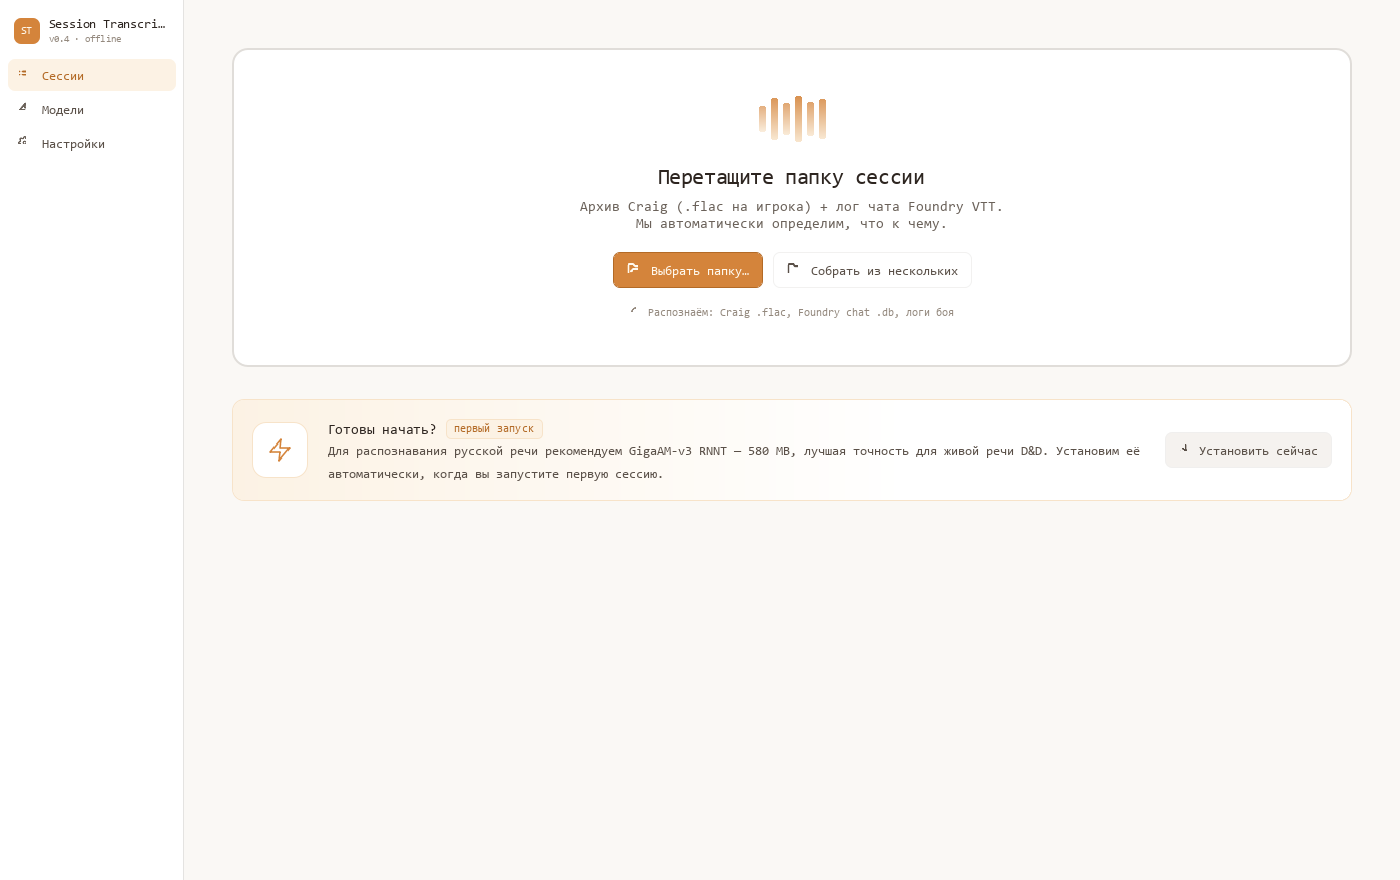
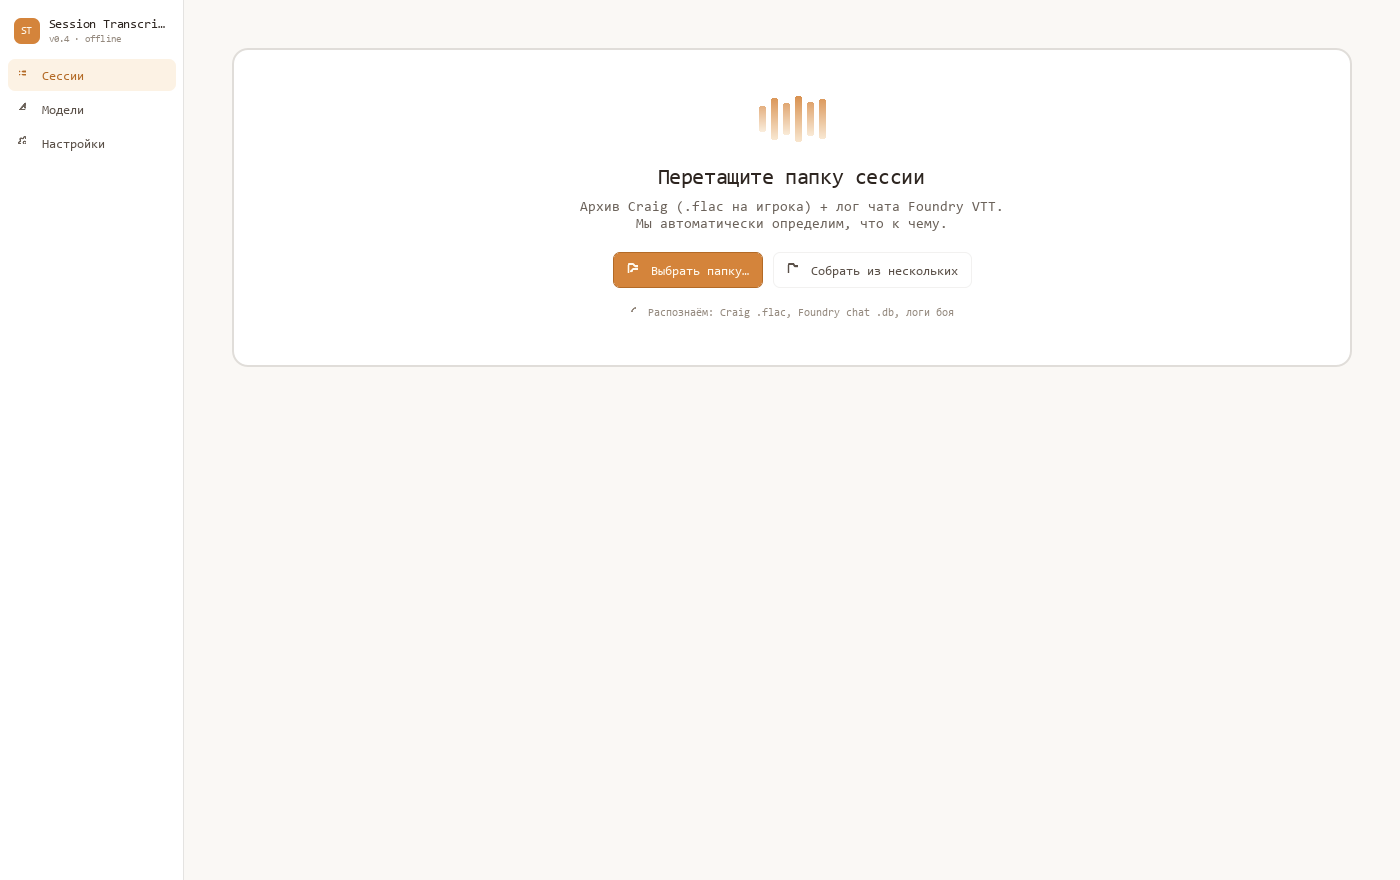
feat(ui): make the first-run install prompt real
Three things were wrong with the first launch of a fresh install.

The "Установить сейчас" button had no onClicked at all - a painted
rectangle. It now installs the recommended model and switches to the
Models screen first, since installation runs on a worker thread and
its progress is only visible there; starting a several-hundred-megabyte
download with no visible progress reads as a dead button.

The copy hardcoded "580 MB" against a catalogue that says ~900 MB, and
promised "Установим её автоматически, когда вы запустите первую
сессию" - which nothing implements. Model name and size now come from
the registry, and the text says what actually happens.

The banner greeted returning users too, inviting them to install a
model they already had. It is now bound to anyInstalled.

Separately, runAsr gained a pre-flight check. Without a model on disk
every track failed on its own with a developer-facing RuntimeError
("GigaAM-v3 model is not installed. Run installer or
GigaAMSource().install(params)"); six red rows of that was the
first-time experience. One sentence pointing at the Models screen
replaces it.

New ModelRegistry properties: anyInstalled, recommendedRow,
recommendedTitle, recommendedSizeLabel.

diff --git a/ui/qml/screens/EmptyScreen.qml b/ui/qml/screens/EmptyScreen.qml
@@ -178,13 +178,17 @@ Rectangle {
                 // follow-up; until then this area stays empty.
 
                 // ── First-install banner ──────────────────────────
+                // Only while there is genuinely nothing installed. It
+                // used to greet returning users too, inviting them to
+                // install a model they already had.
                 Rectangle {
                     Layout.fillWidth: true
                     Layout.topMargin: 32
                     radius: Theme.radiusLg
                     border.width: 1
                     border.color: Theme.accentSoft
-                    implicitHeight: bannerRow.implicitHeight + 40
+                    visible: !modelRegistry || !modelRegistry.anyInstalled
+                    implicitHeight: visible ? bannerRow.implicitHeight + 40 : 0
 
                     gradient: Gradient {
                         orientation: Gradient.Horizontal
@@ -238,7 +242,16 @@ Rectangle {
 
                             Text {
                                 Layout.fillWidth: true
-                                text: "Для распознавания русской речи рекомендуем <b>GigaAM-v3 RNNT</b> — 580 MB, лучшая точность для живой речи D&D. Установим её автоматически, когда вы запустите первую сессию."
+                                // Model name and size come from the catalogue.
+                                // This copy used to hardcode "580 MB" against a
+                                // catalogue that says ~900 MB, and promised
+                                // automatic installation on first run — which
+                                // nothing implements. Transcription simply
+                                // failed once per track instead.
+                                text: "Для распознавания русской речи рекомендуем <b>"
+                                      + (modelRegistry ? modelRegistry.recommendedTitle : "")
+                                      + "</b> — " + (modelRegistry ? modelRegistry.recommendedSizeLabel : "")
+                                      + ". Её нужно установить один раз, до первой сессии."
                                 textFormat: Text.RichText
                                 color: Theme.ink2
                                 font.family: Theme.fontSans
@@ -253,6 +266,18 @@ Rectangle {
                             sizeTag: "md"
                             iconName: "download"
                             text: "Установить сейчас"
+                            enabled: modelRegistry && modelRegistry.recommendedRow >= 0
+                            onClicked: {
+                                if (!modelRegistry)
+                                    return
+                                // Switch to the models screen first: install
+                                // runs on a worker thread and progress is only
+                                // visible there. Starting a multi-hundred-meg
+                                // download with no visible progress reads as a
+                                // dead button.
+                                appModel.screen = "models"
+                                modelRegistry.install(modelRegistry.recommendedRow)
+                            }
                         }
                     }
                 }

diff --git a/tests/test_ui_engines_pipeline_controller.py b/tests/test_ui_engines_pipeline_controller.py
@@ -506,3 +506,82 @@ def test_speaker_map_absent_session_is_not_fatal(monkeypatch) -> None:
     controller._get_or_make_source("gigaam")
 
     assert captured["speaker_map"] == {}
+
+
+class _RegistryStub:
+    """Minimal stand-in for ModelRegistry's pre-flight surface."""
+
+    def __init__(self, any_installed: bool) -> None:
+        self.anyInstalled = any_installed
+        self.activeModelId = "gigaam"
+
+
+def test_run_without_a_model_explains_itself(tmp_path: Path) -> None:
+    """No model installed → one sentence, not six stack traces.
+
+    Every track used to fail separately with a developer-facing
+    RuntimeError ("GigaAM-v3 model is not installed. Run installer or
+    GigaAMSource().install(params)"), which is what a first-time user
+    saw after dropping their first folder.
+    """
+
+    _ensure_app()
+
+    session = tmp_path / "session"
+    session.mkdir()
+    _write_flac_stub(session / "1-alice.flac")
+    _write_flac_stub(session / "2-bob.flac")
+
+    app_model = AppModel()
+    meta = SessionMeta()
+    tracks = TrackListModel()
+    controller = PipelineController(
+        app_model, tracks, meta, _RegistryStub(any_installed=False)
+    )
+    meta.openSession(session.as_uri())
+
+    controller.runAsr()
+
+    message = app_model.errorMessage
+    assert message, "a missing model must surface a message"
+    assert "Модели" in message, message
+    assert "RuntimeError" not in message and "install(" not in message, (
+        f"developer-facing text leaked to the user: {message}"
+    )
+    assert app_model.phase != "asr", "must not start ASR without a model"
+
+
+def test_guard_passes_when_a_model_is_installed(tmp_path: Path) -> None:
+    """The guard must not block the normal path.
+
+    Stops at the guard rather than letting ``runAsr`` spawn a worker —
+    starting real ASR here would go looking for model weights.
+    """
+
+    _ensure_app()
+
+    session = tmp_path / "session"
+    session.mkdir()
+    _write_flac_stub(session / "1-alice.flac")
+
+    app_model = AppModel()
+    meta = SessionMeta()
+    tracks = TrackListModel()
+    controller = PipelineController(
+        app_model, tracks, meta, _RegistryStub(any_installed=True)
+    )
+    meta.openSession(session.as_uri())
+
+    # Every track excluded, and the merge spawn stubbed out: the guard
+    # is then the only thing that could refuse, and it must not.
+    # Letting a real merge thread start would leave a live QThread
+    # behind and hang the test session.
+    for row in range(tracks.rowCount()):
+        tracks.updateSpeakerMapRow(row, "Alice", "Слушатель", [])
+    spawned: list[bool] = []
+    controller._spawn_merger = lambda: spawned.append(True)  # type: ignore[method-assign]
+
+    controller.runAsr()
+
+    assert app_model.errorMessage == "", app_model.errorMessage
+    assert spawned == [True], "the guard swallowed a run it should have allowed"

diff --git a/ui/models/model_registry.py b/ui/models/model_registry.py
@@ -298,6 +298,48 @@ class ModelRegistry(QAbstractListModel):
 
         return sum(1 for r in self._rows if r.installed)
 
+    @Property(bool, notify=installedStateChanged)
+    def anyInstalled(self) -> bool:
+        """Is at least one speech backend actually on disk?
+
+        Drives the first-run card: without this the shell happily
+        invites you to open a session and then fails once per track
+        with a developer-facing RuntimeError.
+        """
+
+        return any(r.installed for r in self._rows)
+
+    @Property(int, notify=installedStateChanged)
+    def recommendedRow(self) -> int:
+        """Row index of the model to offer on first run, or -1.
+
+        Prefers the settings default; falls back to the first row so
+        the card never renders a dead button just because the default
+        went away.
+        """
+
+        for i, row in enumerate(self._rows):
+            if row.backend_id == _SETTINGS_DEFAULT_ACTIVE:
+                return i
+        return 0 if self._rows else -1
+
+    @Property(str, notify=installedStateChanged)
+    def recommendedTitle(self) -> str:
+        row = self.recommendedRow
+        return self._rows[row].name if 0 <= row < len(self._rows) else ""
+
+    @Property(str, notify=installedStateChanged)
+    def recommendedSizeLabel(self) -> str:
+        """Download size of the recommended model, as the catalogue knows it.
+
+        Read from the backend registry rather than written into the
+        copy: the first-run card used to advertise a hardcoded "580 MB"
+        while the catalogue said ~900 MB.
+        """
+
+        row = self.recommendedRow
+        return self._rows[row].size if 0 <= row < len(self._rows) else ""
+
     @Property(str, notify=installedStateChanged)
     def installedSizeLabel(self) -> str:
         """Human-readable total size across installed backends."""

diff --git a/ui/engines/pipeline_controller.py b/ui/engines/pipeline_controller.py
@@ -159,6 +159,20 @@ class PipelineController(QObject):
         if self._merge_thread is not None and self._merge_thread.isRunning():
             return
 
+        # Pre-flight: without a model on disk every track fails
+        # separately with a developer-facing RuntimeError ("GigaAM-v3
+        # model is not installed. Run installer or
+        # GigaAMSource().install(params)"). Six red rows of that is
+        # what a first-time user used to get. One sentence pointing at
+        # the Models screen is the whole fix.
+        if self._registry is not None and not self._registry.anyInstalled:
+            self._app.setErrorMessage(
+                "Не установлена ни одна модель распознавания. "
+                "Откройте раздел «Модели» и установите рекомендованную — "
+                "это делается один раз."
+            )
+            return
+
         self._tracks.resetProgress()
         self._tracks.resetStates()
         self._app.clearMergeState()
@@ -172,10 +186,10 @@ class PipelineController(QObject):
         self._cancelled = False
         self._collected_segments = {}
 
-        # Initial marking: every non-excluded row is queued. On-disk
-        # cache lookup (skipping rows that already have a transcript)
-        # is a core/cache.py concern and is not wired yet — until it
-        # lands the pipeline re-runs ASR on every non-excluded row.
+        # Initial marking: every non-excluded row is queued. The
+        # per-track transcript cache lives one layer down, inside the
+        # source's extract() — this path calls transcribe_track()
+        # directly and so does not benefit from it yet.
         self._queue = []
         for row in range(self._tracks.rowCount()):
             if self._is_excluded(row):
